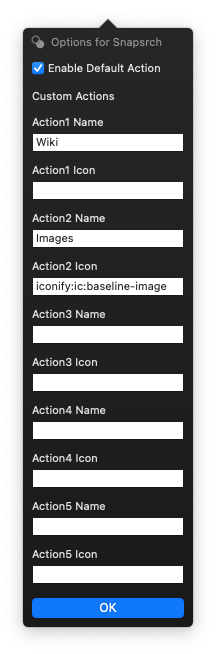
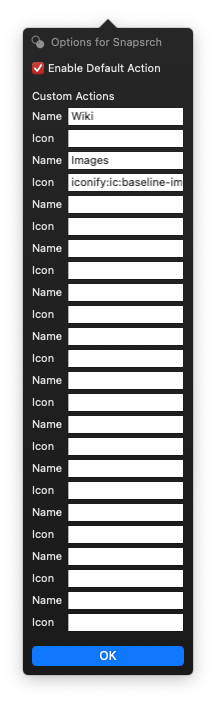
Increase the number of custom actions to 12

diff --git a/Snapsrch.popclipext/Config.js b/Snapsrch.popclipext/Config.js
@@ -1,4 +1,4 @@
-const numberOfCustomActions = 5;
+const numberOfCustomActions = 12;
 
 const options = new Array();
 options.push({
@@ -15,12 +15,14 @@ for (let i = 1; i <= numberOfCustomActions; i++) {
     options.push({
         identifier: `customAction${i}`,
         type: "string",
-        label: `Action${i} Name`
+        label: `Name`,
+        inset: true
     });
     options.push({
         identifier: `customAction${i}Icon`,
         type: "string",
-        label: `Action${i} Icon`
+        label: `Icon`,
+        inset: true
     });
 }
 
